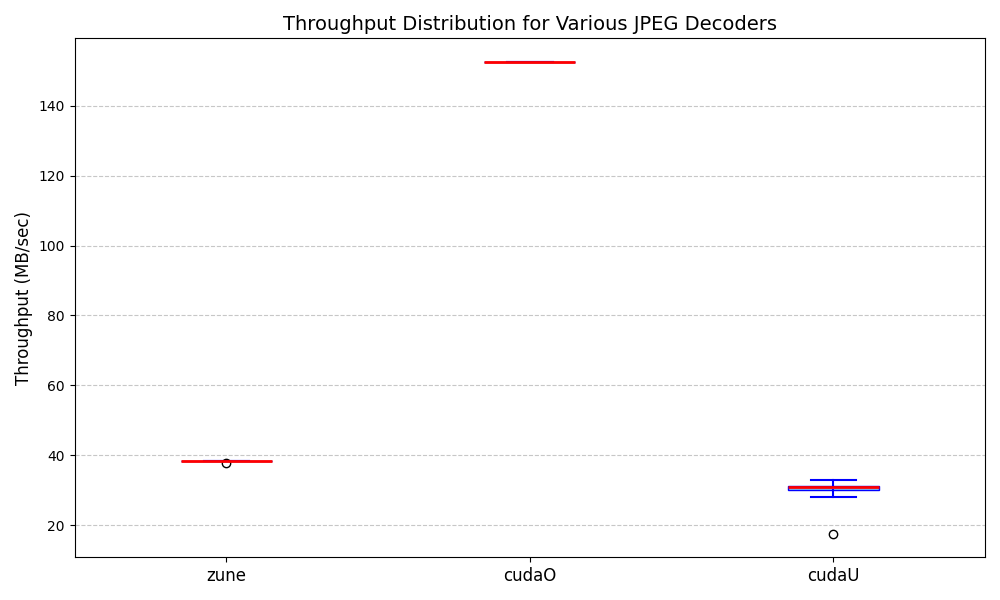
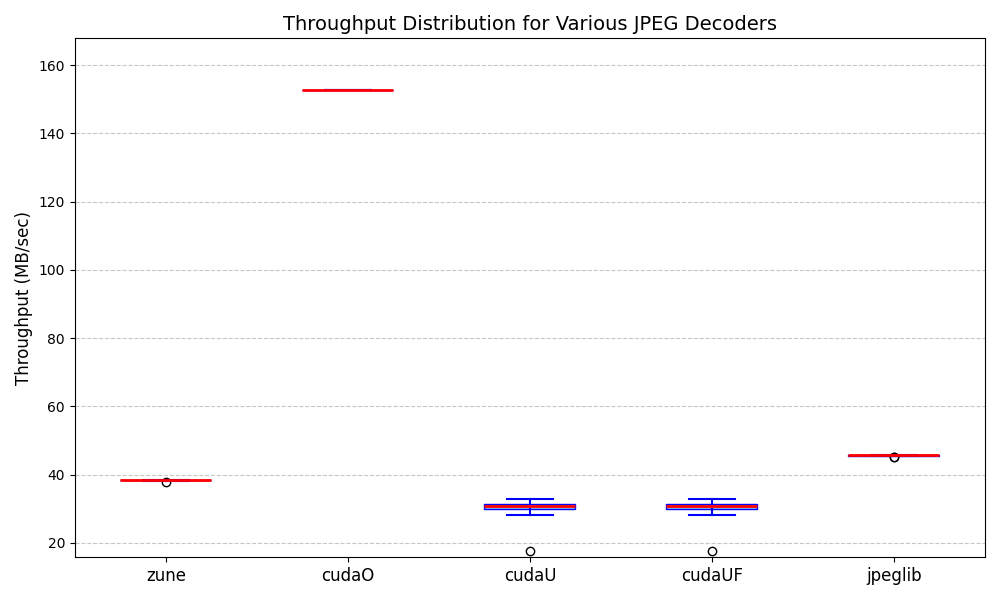
add std and boxplot

diff --git a/plots/throughput_boxplot_v2.py b/plots/throughput_boxplot_v2.py
@@ -1,8 +1,9 @@
 import os
 import matplotlib.pyplot as plt
+import numpy as np
 
 # Define benchmark parameters
-versions = ['zune', 'cudaO', 'cudaU', 'cpp', 'jpeglib']
+versions = ['zune', 'cudaO', 'cudaU', 'cudaUF', 'cpp', 'jpeglib']
 base_path = '/home/dphpc2024_jpeg_1/GPU-JPEG-Decoder/'
 
 # Function to extract throughput data in MB/sec from the benchmark results text file
@@ -21,8 +22,8 @@ def extract_throughput_mb(file_path):
 # Function to find the TXT file for each version
 def find_txt_file(base_path, version):
     possible_paths = [
-        os.path.join(base_path, version + '-implementation', 'benchmark_thoughput', 'build', 'benchmark_results.txt'),  # Fix for the typo
-        os.path.join(base_path, version + '-implementation', 'benchmark_throughput', 'build', 'benchmark_results.txt')  # Keep original path as fallback
+        os.path.join(base_path, version + '-implementation', 'benchmark_thoughput', 'build', 'benchmark_results.txt'),
+        os.path.join(base_path, version + '-implementation', 'benchmark_throughput', 'build', 'benchmark_results.txt')
     ]
     for path in possible_paths:
         print(f"Checking path: {path}")
@@ -50,6 +51,9 @@ for version in versions:
 # Prepare data for the boxplot
 box_data = [throughput_data[version] for version in versions if version in throughput_data and throughput_data[version]]
 
+# Ensure all versions have at least some range for visibility
+box_data = [data if np.ptp(data) > 0 else [min(data) - 1e-2, max(data) + 1e-2] for data in box_data]
+
 # Check if there's valid data to plot
 if box_data:
     # Create the boxplot
@@ -61,8 +65,14 @@ if box_data:
         boxprops=dict(facecolor="skyblue", color="blue"),
         medianprops=dict(color="red", linewidth=2),
         whiskerprops=dict(color="blue", linewidth=1.5),
-        capprops=dict(color="blue", linewidth=1.5)
+        capprops=dict(color="blue", linewidth=1.5),
+        showfliers=True  # Display outliers
     )
+
+    # Adjust the y-axis to show all values clearly
+    y_min = min(min(data) for data in box_data) * 0.9  # Add 10% padding
+    y_max = max(max(data) for data in box_data) * 1.1
+    plt.ylim(y_min, y_max)
 
     # Set plot labels and title
     plt.title("Throughput Distribution for Various JPEG Decoders", fontsize=14)
